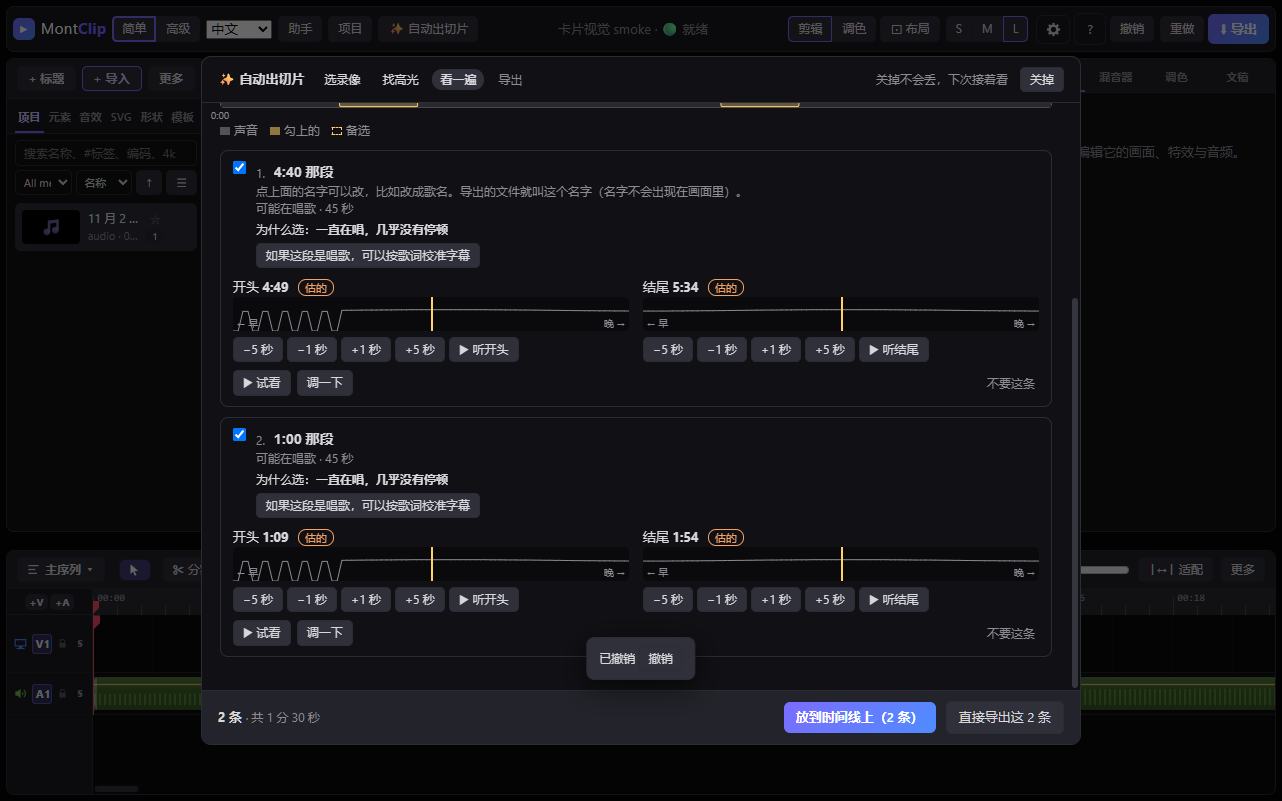
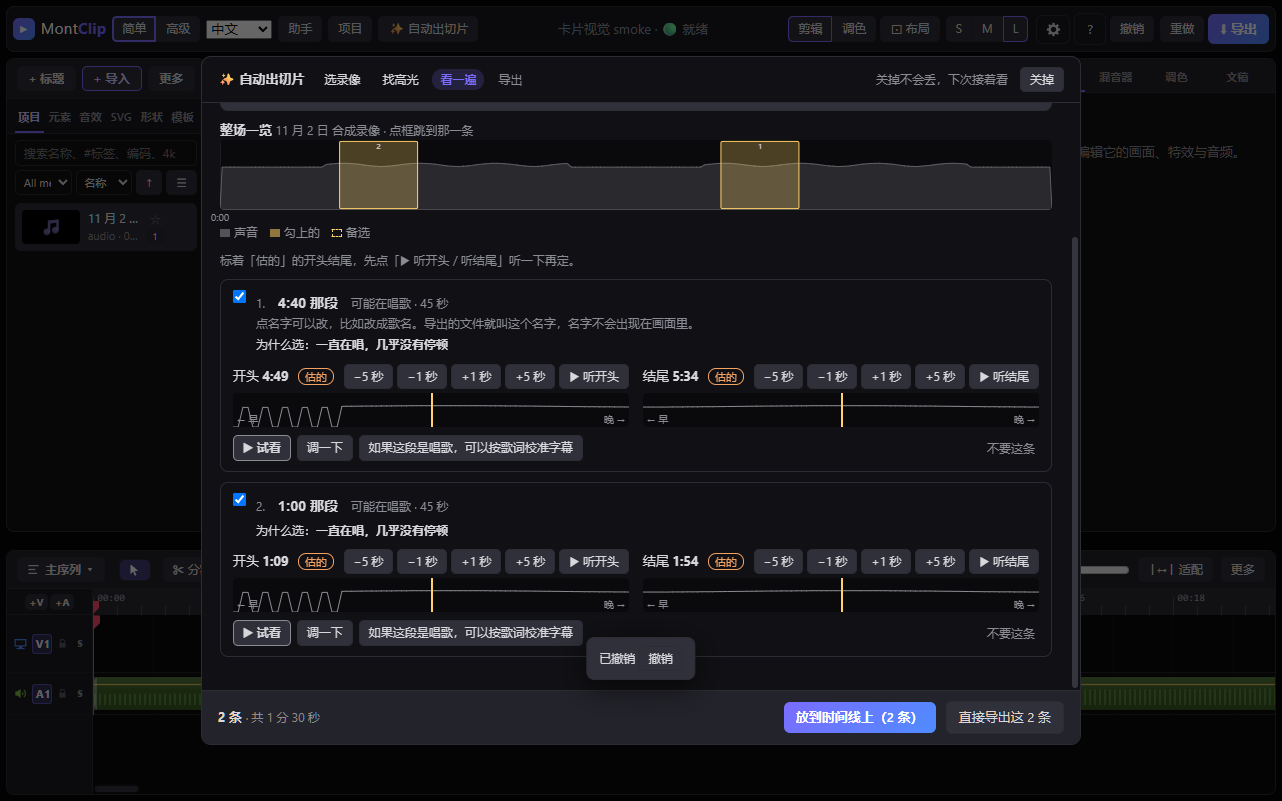
docs(validation): slice-cards evidence on the v12 cards

Changed region(s): [[0.156, 0.0936, 0.8424, 0.8115], [0.8112, 0.3121, 0.8424, 0.3745], [0.78, 0.3745, 0.8112, 0.4057]]

diff --git a/docs/validation/2026-11-03-slice-cards/README.md b/docs/validation/2026-11-03-slice-cards/README.md
@@ -1,11 +1,11 @@
-# 自动出切片 review cards: JJ's v11 visual review (evidence)
+# 自动出切片 review cards: JJ's visual review as the frozen v12 has them (evidence)
 
-Code at `e7ea9fb`. Windows, fresh profile, hidden offscreen window, synthetic sound only (test/songs-synth.js); the pictures
+Code at `86638c4`. Windows, fresh profile, hidden offscreen window, synthetic sound only (test/songs-synth.js); the pictures
 are `capturePage` of the smoke's own window, no desktop capture.
 
     MONTCLIP_SHOTS_OUT=<this folder> electron desktop/slice-cards-smoke.cjs --montclip-smoke --user-data-dir=<fresh>
 
 - `smoke-output.txt` — SLICE_CARDS_PASS and what it measured.
-- `slice-cards-1280x800-top.png` — the review page: the 估的 note once above the cards, the name hint on the first card.
+- `slice-cards-1280x800-top.png` — the review page: the 估的 note once under the overview, the name hint on the first card, the kind in the name row, the ± buttons beside each time.
 - `slice-cards-1280x800-card.png` — two cards after 不要这条 and 〔撤销〕: the second card has no name hint, 不要这条 at the right.
 - `slice-cards-630x460.png` — the narrow window.
